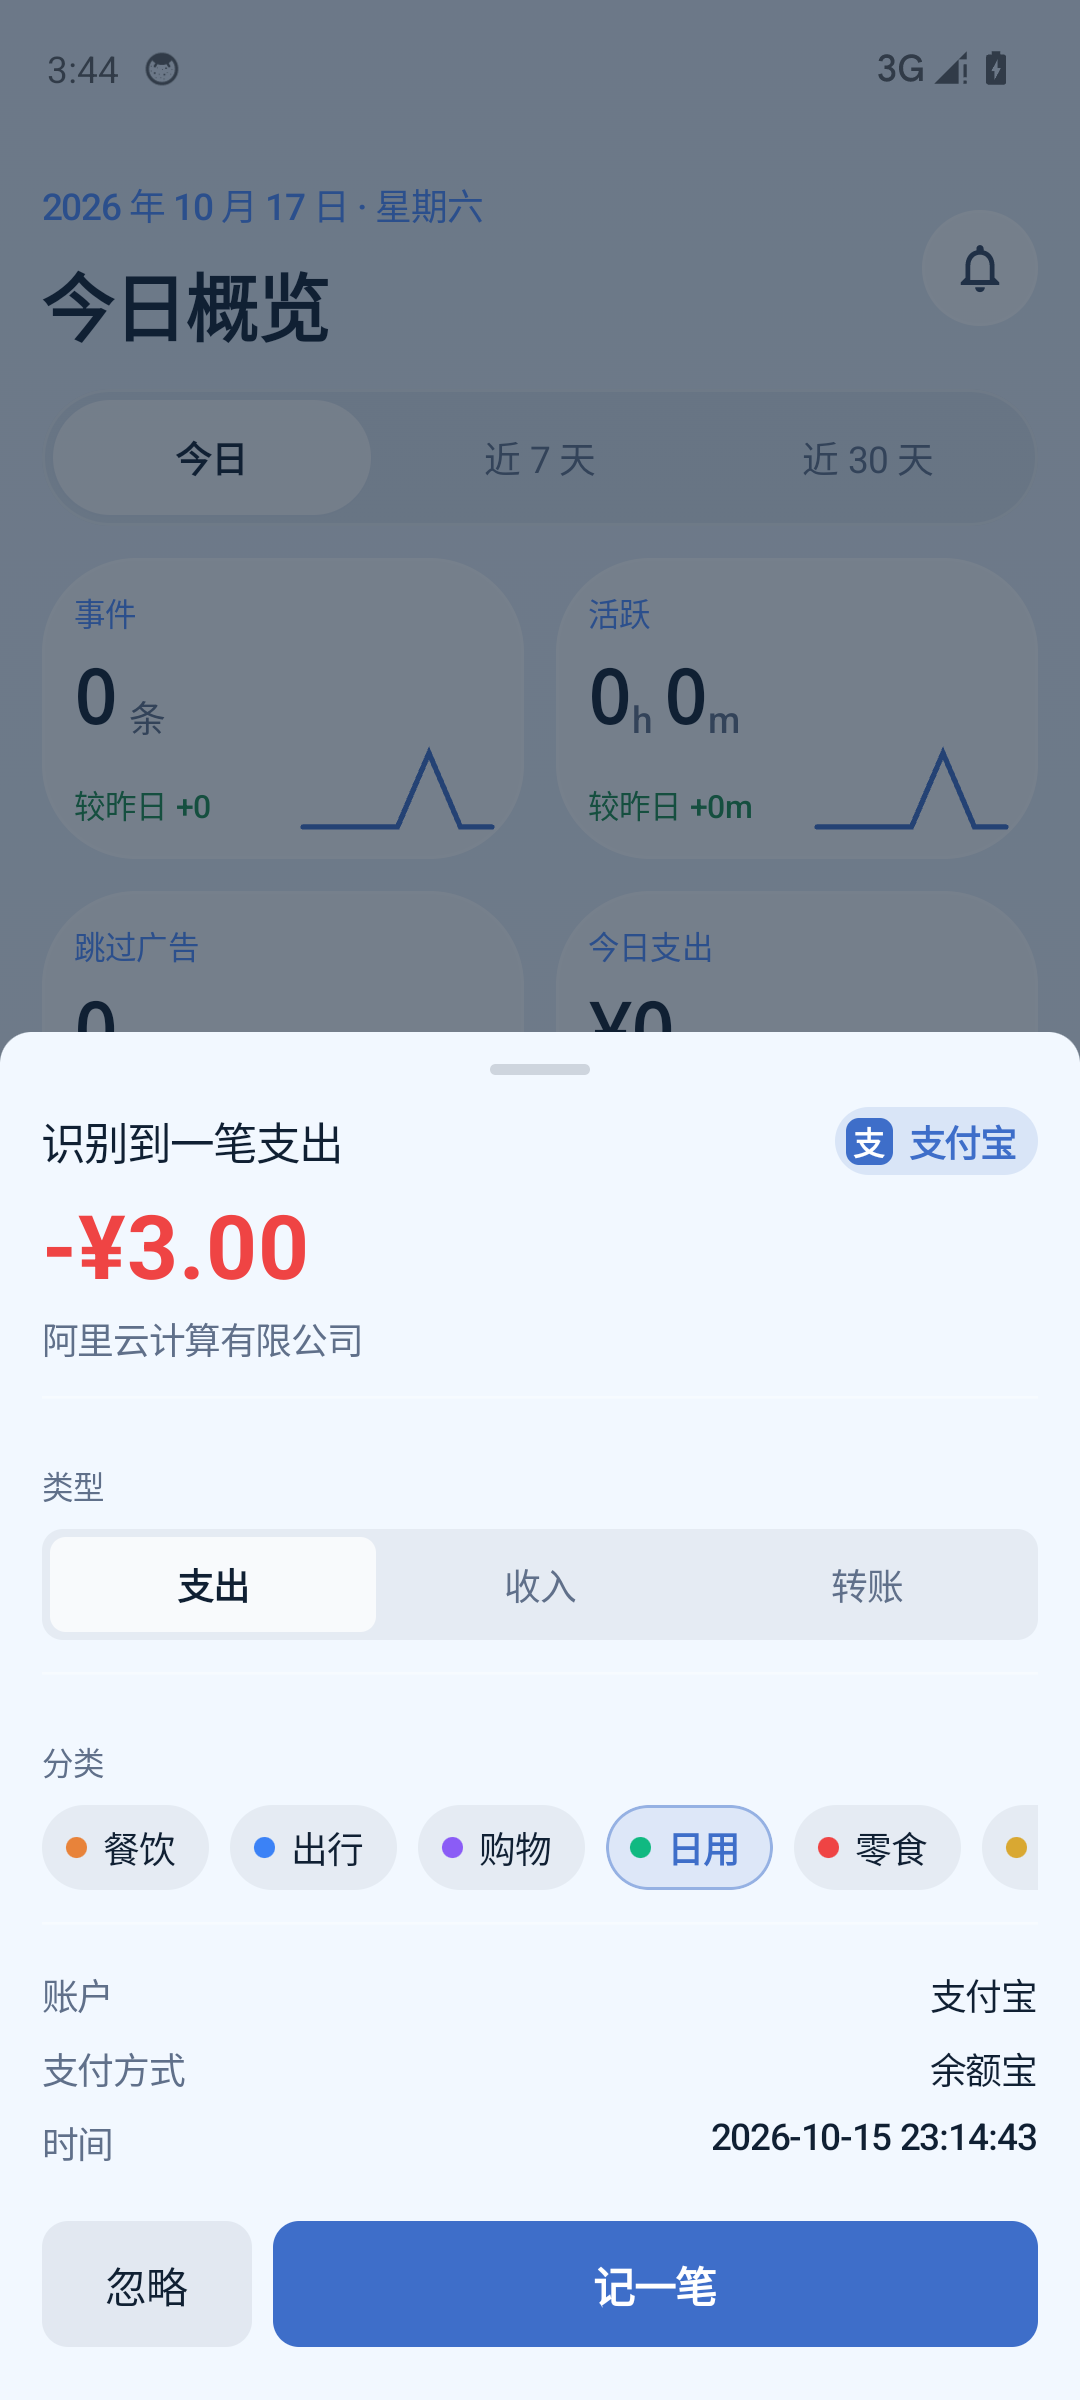
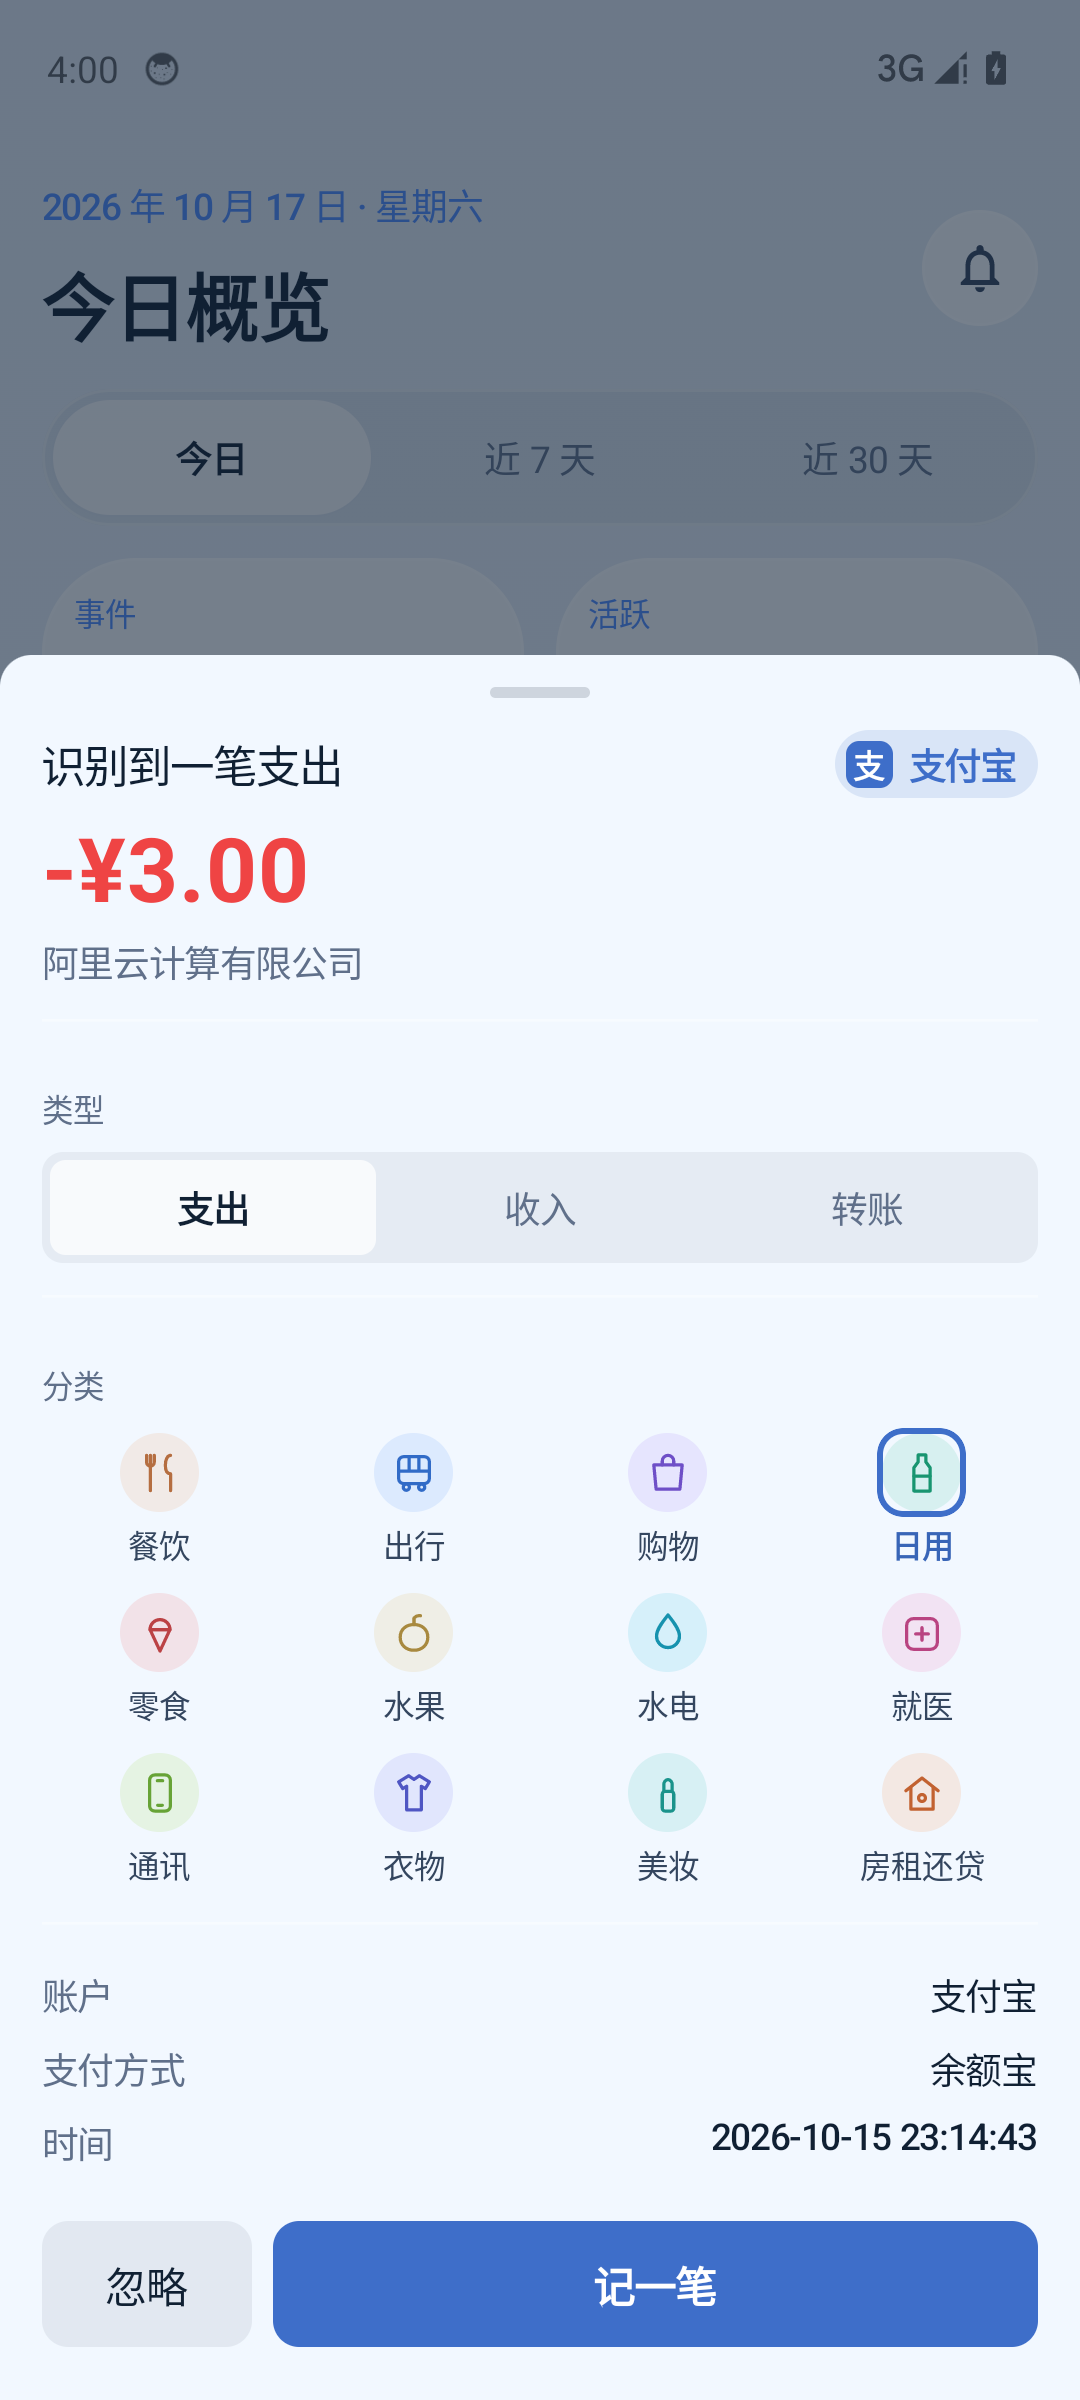
docs: 同步浮窗分类网格与付款方式归一化

diff --git a/docs/记账/自动记账.md b/docs/记账/自动记账.md
@@ -71,6 +71,7 @@ AutoBookEngine.persist()         幂等落库（source + sourceId 去重）→ f
 | **面板实心** | `opaquePanel` = surface-warm → surface → bg 合成到 **100% 不透明**（玻璃主题下为 `#f2f8ff`），不再透出支付页 | `AutoBookConfirmSheet` / `DesignTokenCatalog.opaquePanel` |
 | **状态栏图标** | 遮罩是深色，目标切浅色（`isAppearanceLightStatusBars = false`）；图标最终由 systemui 决定，ROM 可能有差异 | `AutoBookOverlay.show()` |
 | **动效** | 遮罩淡入 180ms + 卡片从底部滑入 220ms；关闭即时卸载（保持既有行为） | `AutoBookOverlay` |
+| **分类区域** | **4 列图标网格**（与「记一笔」同一套分类格）：一屏 3 行（默认 12 个分类全可见），分类更多时可上下滑；选中项自动滚入可视区 | `AutoBookConfirmSheet.CategoryGrid` |
 
 > ⚠ **遮罩是有意加深的**：原型 `scrim` 是 0.34，浮层盖在**别的 App** 上时太浅会让人分不清哪一层可点；叠两层 ≈ 0.56 与窗口级浮层（`WindowOverlay`）同一口径。
 >
@@ -129,7 +130,7 @@ AutoBookEngine.persist()         幂等落库（source + sourceId 去重）→ f
 | 商户 | `收款方全称` / `商户全称` / `商户名称` … 标签的同行右侧内容 | 页面靠前的可用短文本；再取不到留空 |
 | 分类 | 平台自带分类（`日用百货` → 日用）优先 | 商户关键词；再兜底「其他」 |
 | 账户 | 固定取 App 账户体系（支付宝 / 微信钱包），保证记账能算进余额 | 规则里配置 |
-| 支付方式 | `付款方式` / `支付方式` 标签值（余额宝 / 零钱） | 空则不展示 |
+| 支付方式 | `付款方式` / `支付方式` 标签值（余额宝 / 零钱）；**微信的「已选择零钱，更改」会归一成「零钱」**（去掉「已选择」前缀、「更改」入口与值前逗号） | 空则不展示 |
 | 时间 | `支付时间` / `交易时间` / `创建时间` 标签值，或全页首个日期时间串 | 空则不展示 |
 | 订单号 | `订单号` / `业务交易号` … 标签值（**含行内标签**，见下） | 取不到留空 |
 
@@ -269,6 +270,8 @@ AutoBookEngine.persist()         幂等落库（source + sourceId 去重）→ f
 | 支付宝账单详情页（`交易成功` + `支出81元`） | ✅ 真机验证通过 | [真机浮窗截图](assets/自动记账-真机浮窗-缴费账单.png)：识别 `amount=81.0 merchant=某市供水公司` |
 | 浮窗展示（跟随 8 套主题） | ✅ 真机验证通过 | `WindowManager: showSurfaceRobustly mWin:Window{... com.bsfeng.monitor}`；见上方截图 |
 | **浮窗 v2：全屏遮罩 / 实心面板 / 状态栏覆盖** | ✅ 模拟器视觉验证（Android 14 / 1080×2400 AOSP）：状态栏区域随遮罩变暗、面板无透底、按钮不被手势条压住；点遮罩 / 「忽略」均可关闭 | [模拟器截图](assets/自动记账-浮窗v2-模拟器.png) |
+| **浮窗 v2：分类 4 列图标网格** | ✅ 模拟器视觉验证：默认 12 个分类一屏 3 行全可见、选中项描边，不再出现单行 chips 被截断 | 同上截图 |
+| **微信付款方式不再带「已选择零钱，更改」脏值** | ✅ 单测覆盖：值前逗号与「更改」入口会被清掉，浮窗/备注只剩「零钱」 | `AutoBookParserTest` |
 | **浮窗 v2：1s 延迟弹出（含到点复核）** | ✅ 延迟门控 8 例单测；⚠ 真机支付页的 1s 时序待复核 | `AutoBookShowGateTest` |
 | 商户名不再被标签前缀污染 | ✅ 真机验证通过 | 同一笔从 `式 招商银行信用卡(8888)` 修正为 `某市供水公司` |
 | 同一笔反复触发**只弹一次** | ✅ 真机验证通过 | 全程仅 1 次 `识别到账单`；浮窗未操作时再触发 2 次**无任何重建**；点「忽略」后再触发 4 次均为 `去重命中，本次不弹窗：该笔已忽略（key=time:alipay:0:81.0:2026-10-15 22:58:24 剩余 598s→579s）` |
